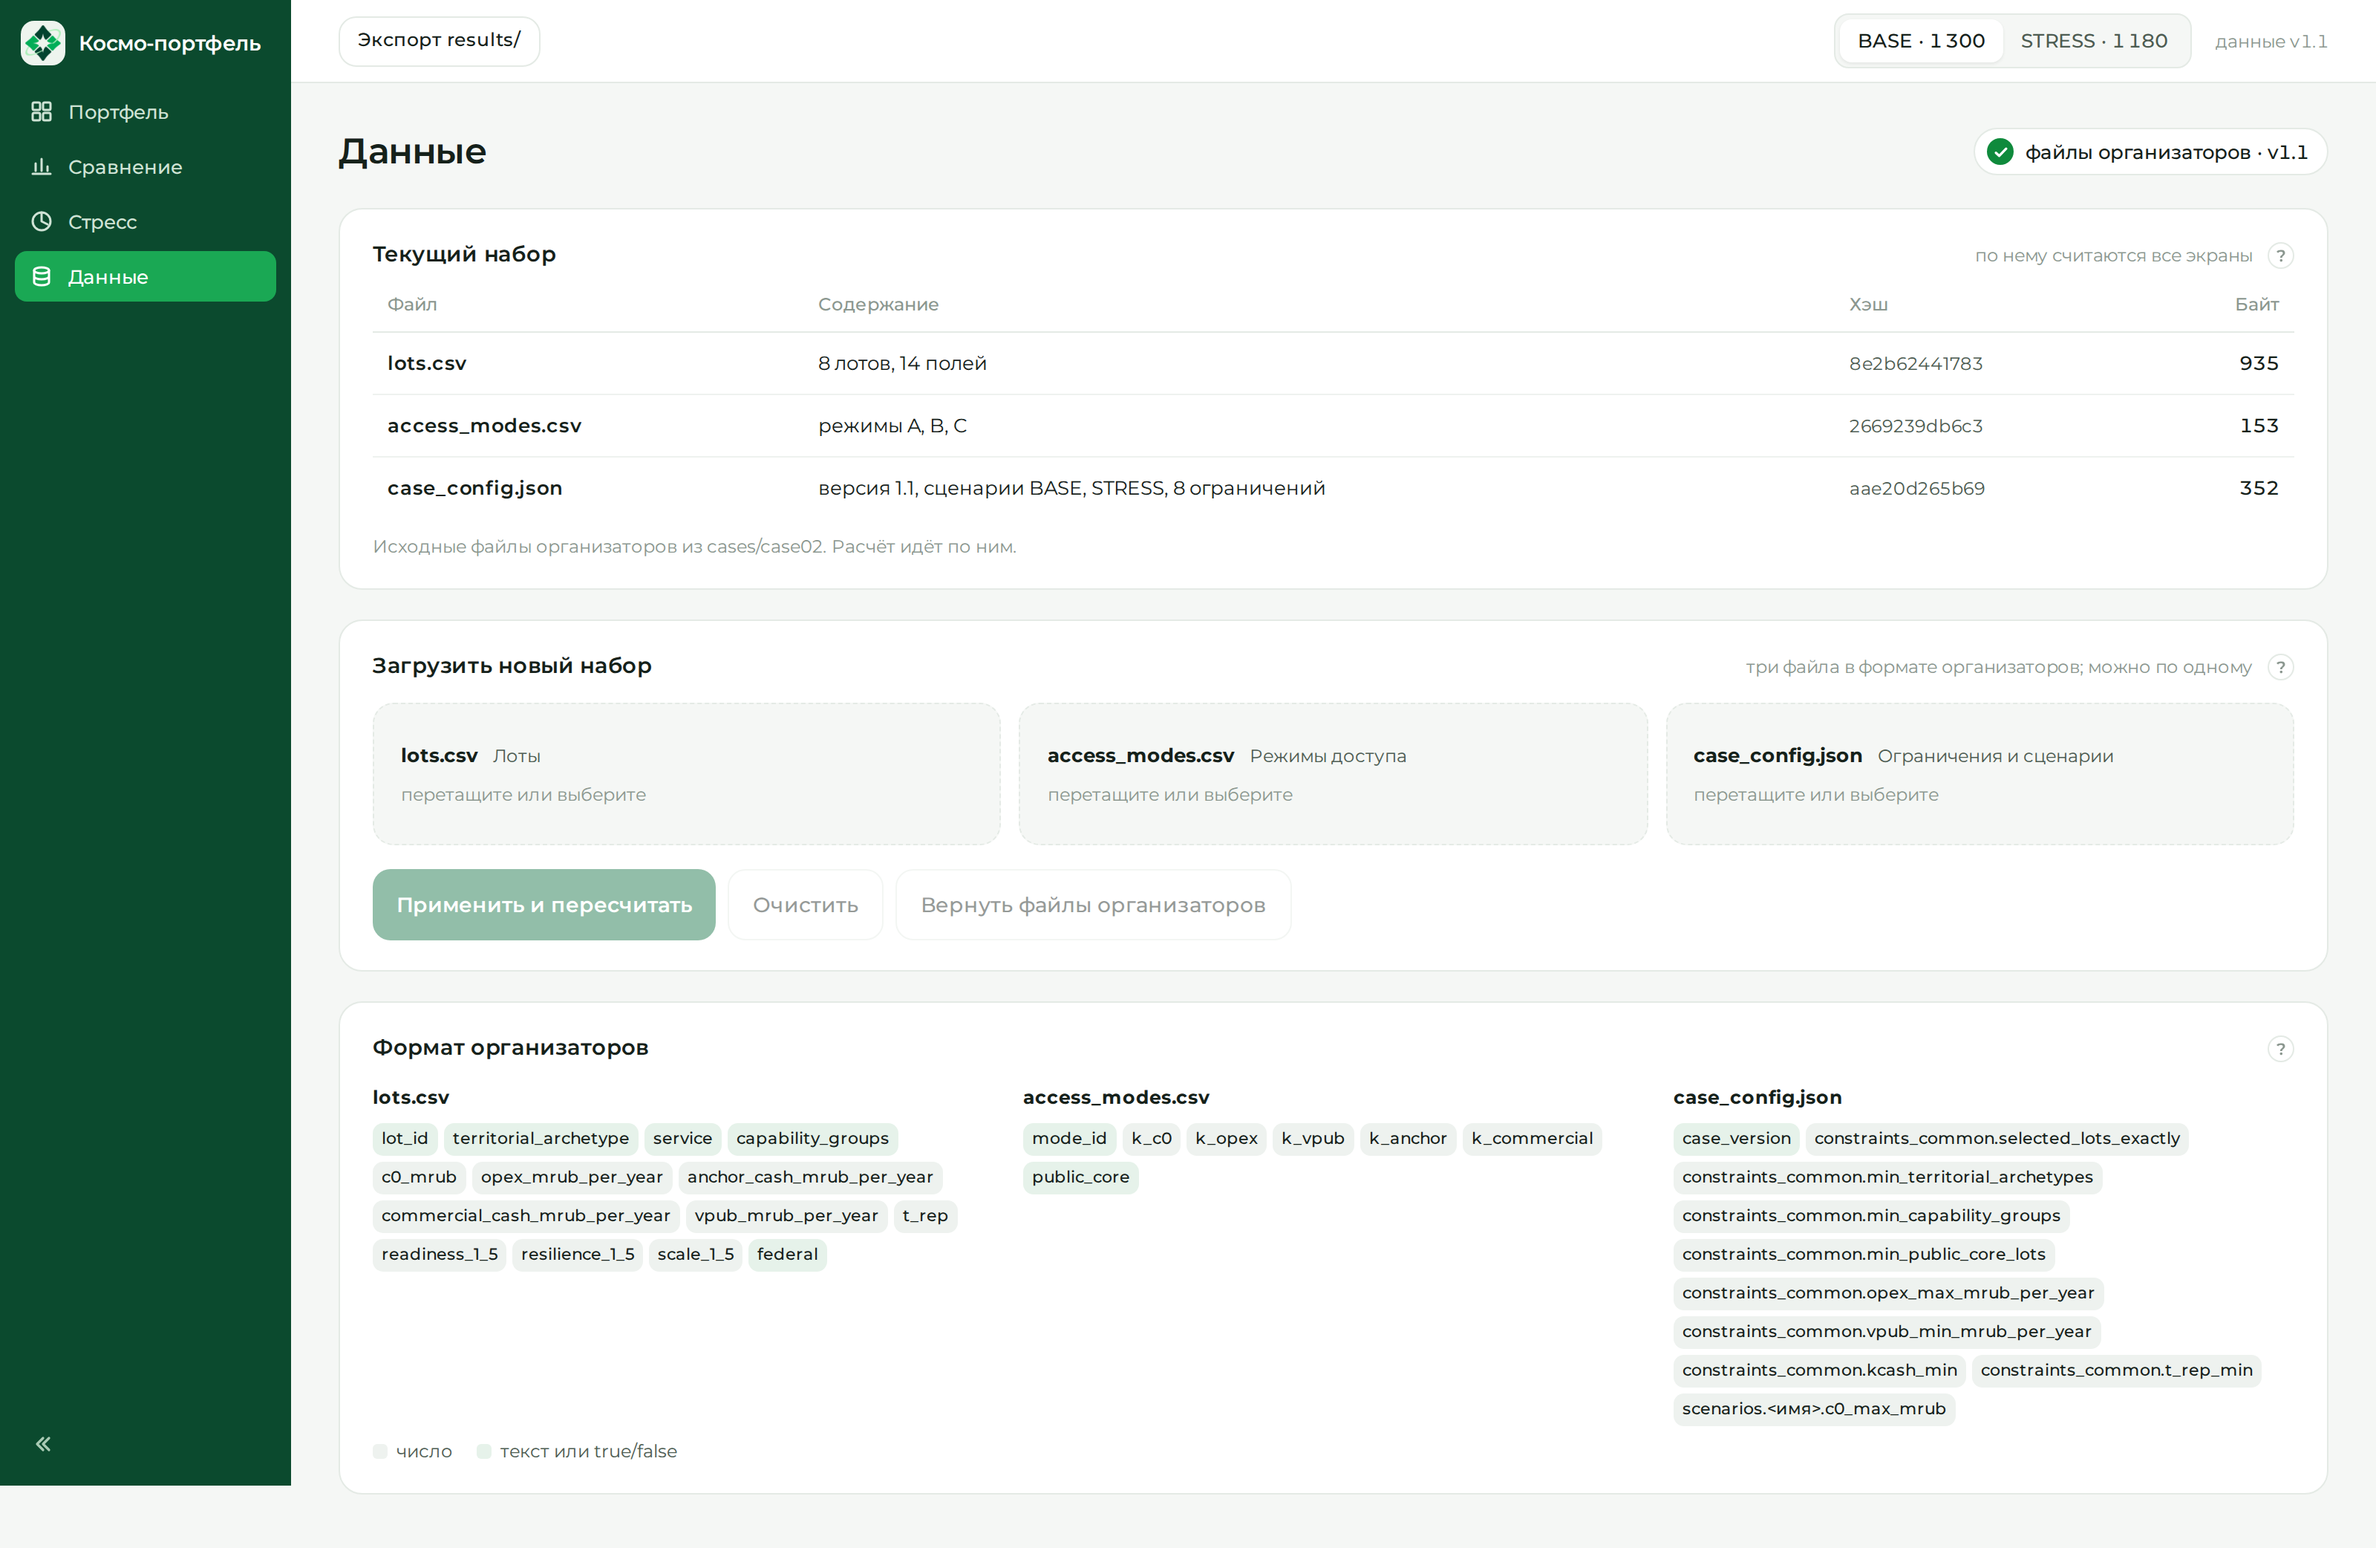
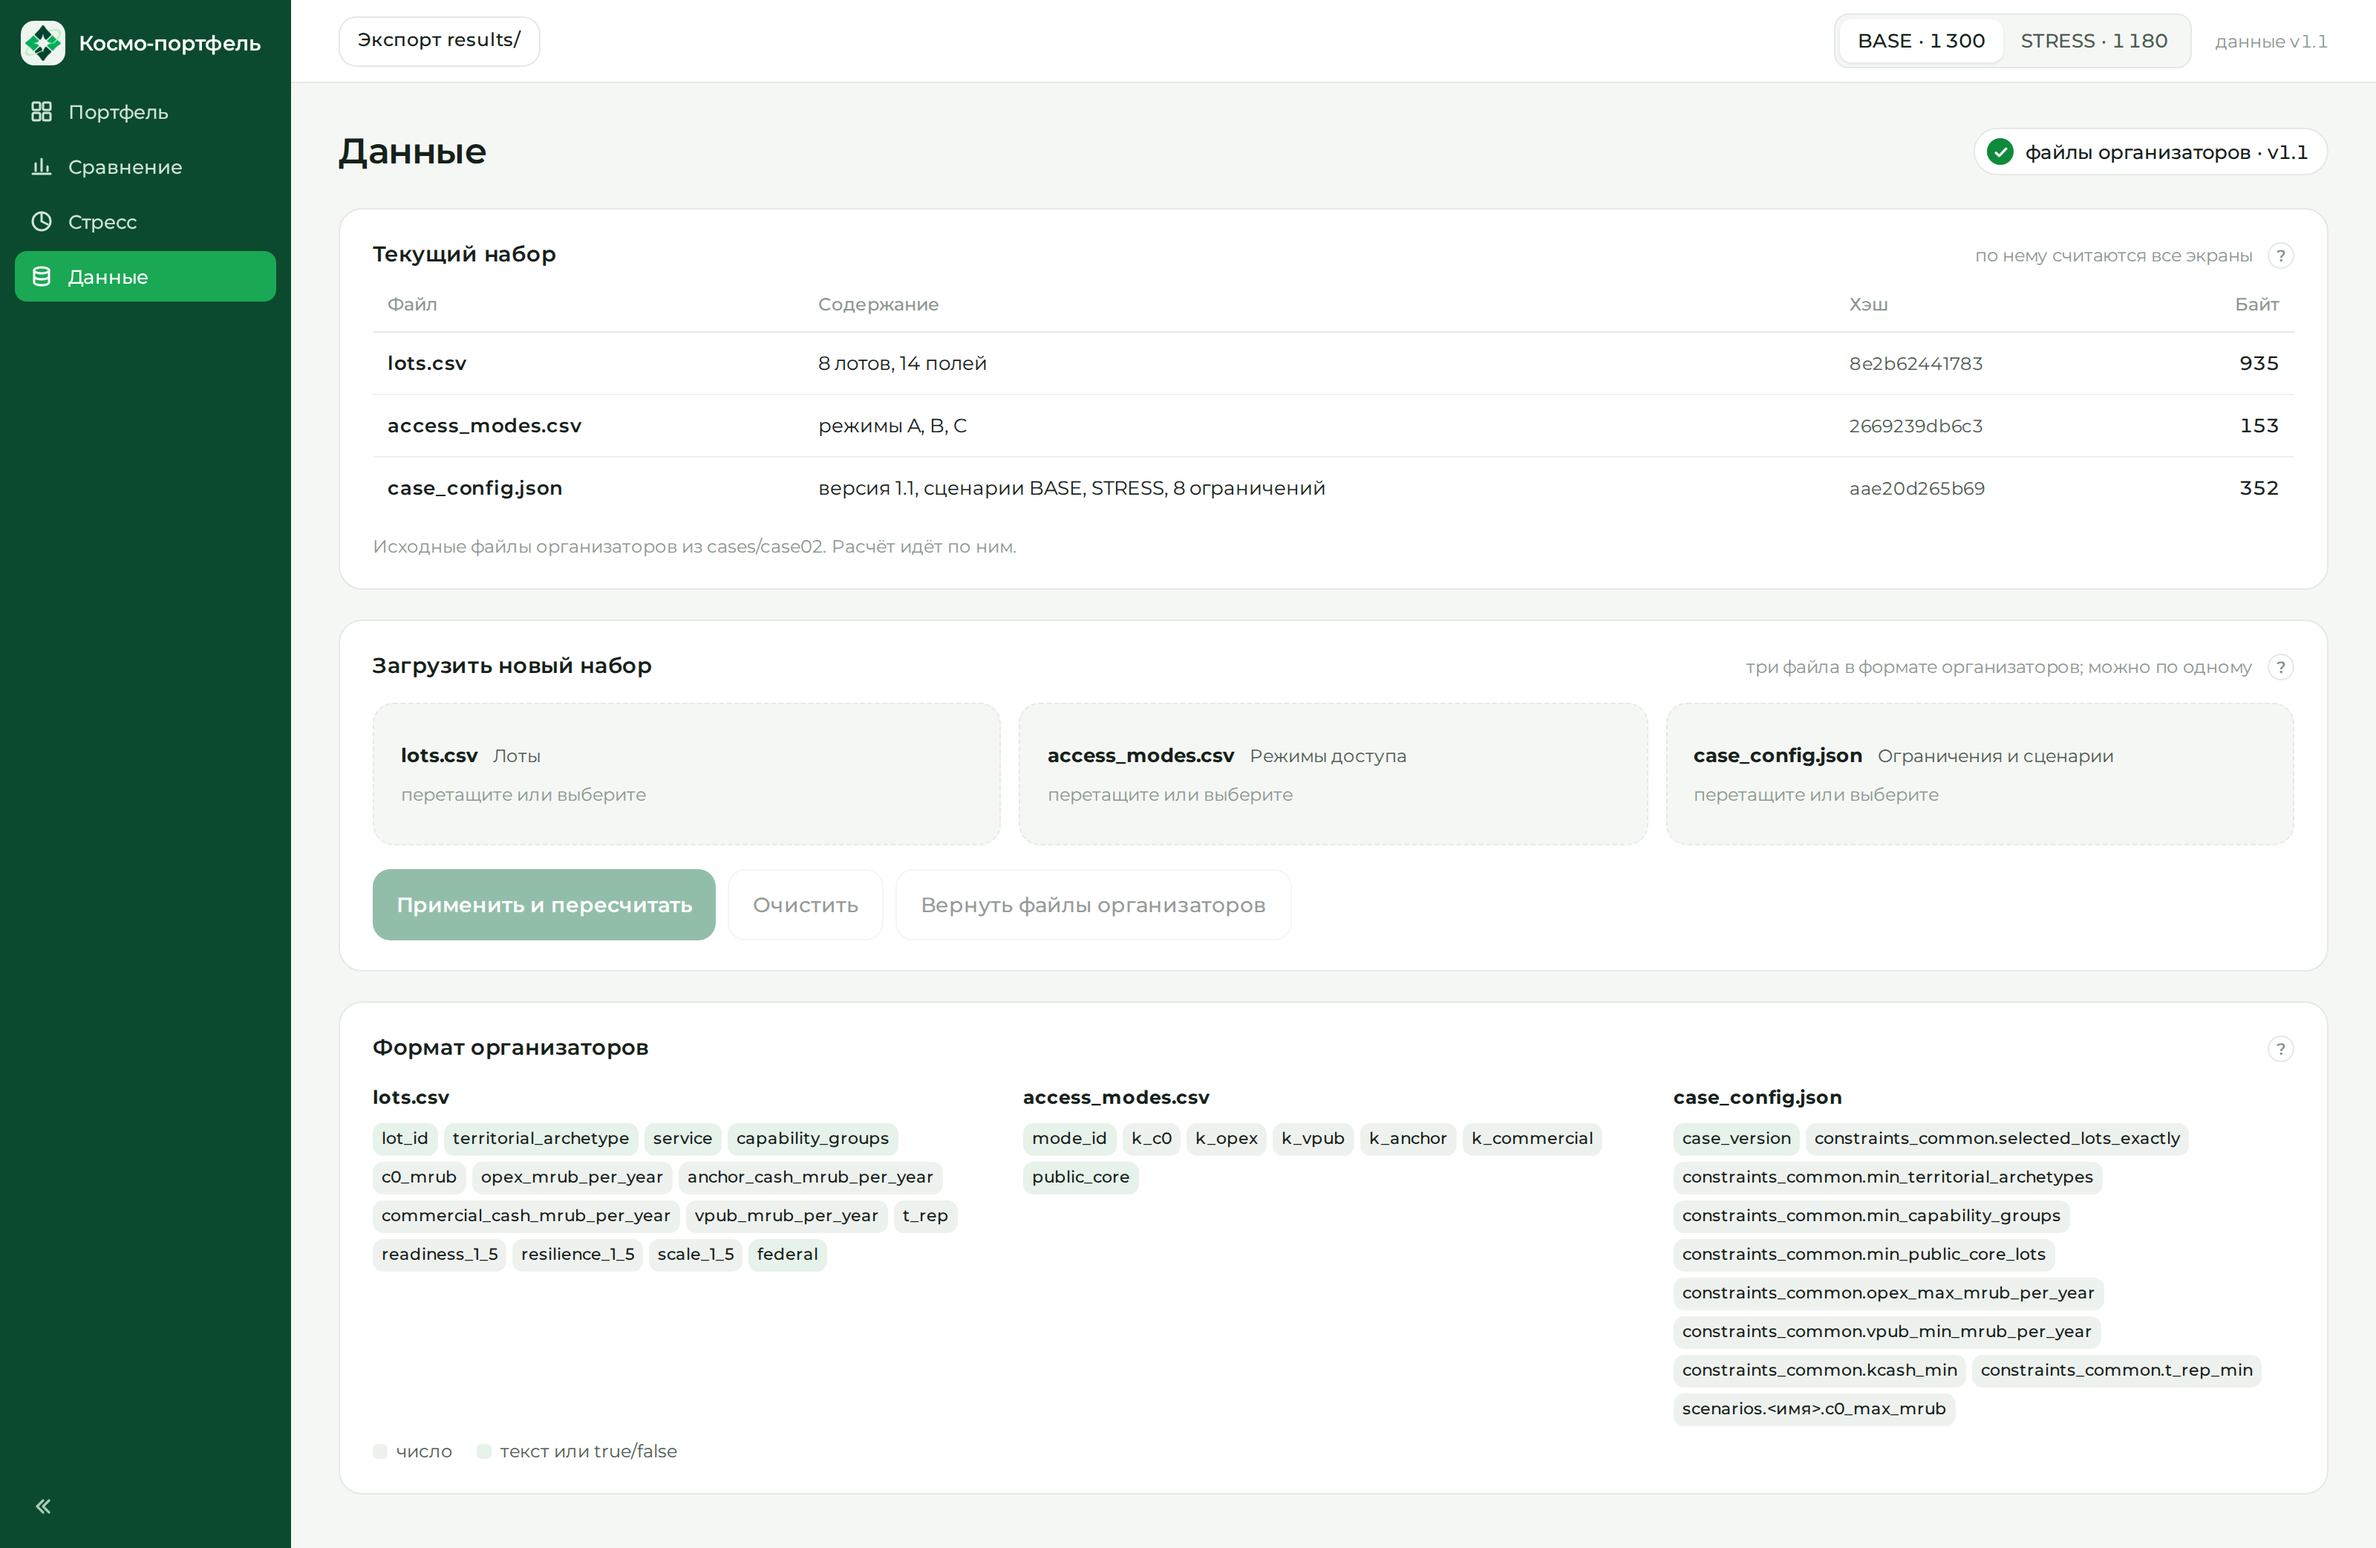
App: sidebar spans the full page like the mockup
The panel no longer stops at the viewport height; brand and navigation stay
sticky at the top while scrolling and the collapse toggle sits at the
bottom of the panel. Screenshots regenerated.

Claude-Session: https://claude.ai/code/session_01KcoMSpG9W4V5jAtNpJCSFt

Changed region(s): [[0.0, 0.9357, 0.125, 1.0]]

diff --git a/app/static/styles.css b/app/static/styles.css
@@ -194,7 +194,9 @@ td .name{font-weight:500}td .sub{color:var(--muted);font-size:11.5px;margin-top:
 
 /* ---- app-specific (interactive states, fluid shell) ---- */
 .shell{width:100%;min-height:100vh}
-.side{position:sticky;top:0;height:100vh}
+/* панель на всю высоту страницы, как в макете; бренд с навигацией липнут к верху окна при прокрутке, кнопка сворачивания — внизу панели */
+.side{min-height:100vh}
+.side-top{position:sticky;top:12px;display:flex;flex-direction:column}
 .nav a{cursor:pointer;user-select:none}.nav a:hover{background:rgba(255,255,255,.08);color:#fff}.nav a.on:hover{background:#1aa854}
 .collapse:hover{background:rgba(255,255,255,.08);color:#fff}
 .hdr{justify-content:space-between}

diff --git a/app/static/index.html b/app/static/index.html
@@ -10,8 +10,10 @@
 <body>
 <div class="shell" id="shell">
   <aside class="side">
-    <div class="brand"><i><img src="logo.png" alt=""></i><span>Космо-портфель</span></div>
-    <nav class="nav" id="nav"></nav>
+    <div class="side-top">
+      <div class="brand"><i><img src="logo.png" alt=""></i><span>Космо-портфель</span></div>
+      <nav class="nav" id="nav"></nav>
+    </div>
     <div class="collapse" id="collapse" title="Свернуть панель"><svg viewBox="0 0 16 16" fill="none" stroke="currentColor" stroke-width="1.6" stroke-linecap="round" stroke-linejoin="round"><path d="M9 4L5 8l4 4M13 4L9 8l4 4"></path></svg></div>
   </aside>
   <div class="body">
